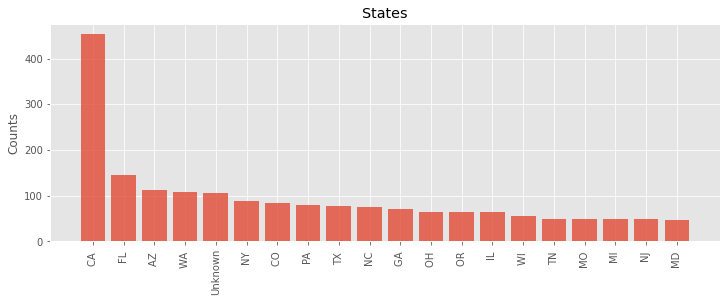
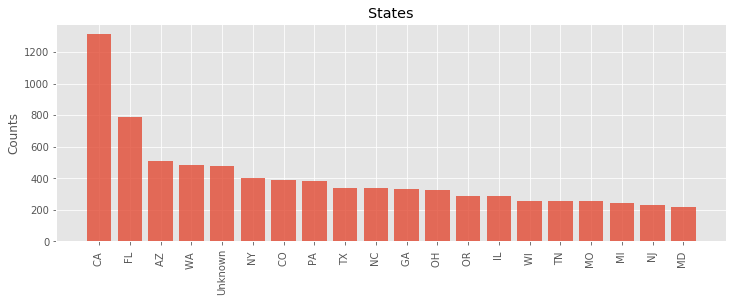
add readme state

diff --git a/README.md b/README.md
@@ -54,7 +54,7 @@ The cleaned up pandas dataframe is shown below
 The sightings described the UFOs as various different shapes, including circles, chevrons, lights, or fireballs. The duration of the sightings lasted from a few seconds to many minutes. 
 
 
-Shapes and Duration
+**Shapes and Duration**
 <img alt="shapes" src='images/shape_duration.png' style='width: 600px;'>
 
 
@@ -62,6 +62,11 @@ The time of day for the observations were also interesting. Sightings tended to 
 
 <img alt="timeofday" src='images/time_of_day.png'>
 
+**State**
+
+We got a count of the states and sightings. It seems California is number one for UFO sightings.
+
+<img alt="state_count" src='images/state_counts.png'>
 
 
 ## Natural Language Processing
